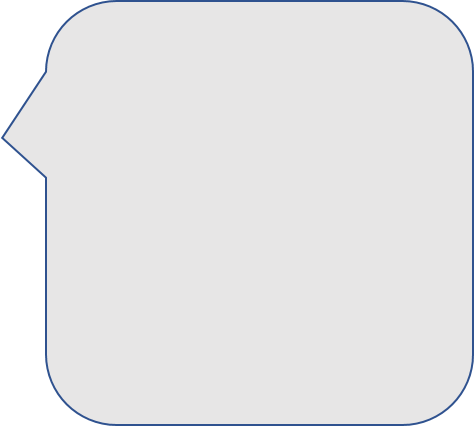
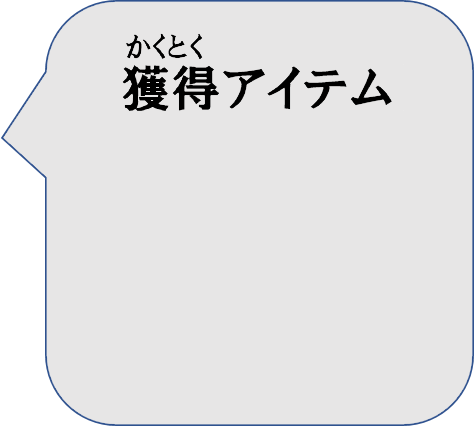
html,css,js,各画像を編集・追加

Changed region(s): [[0.2658, 0.0915, 0.5612, 0.2746], [0.5612, 0.1526, 0.7384, 0.2746], [0.7384, 0.1526, 0.827, 0.2441]]

diff --git a/works/ClearAndForEnding/js/clear.js b/works/ClearAndForEnding/js/clear.js
@@ -1,0 +1,84 @@
+$(function(){
+  // クッキーの値取得
+  var chapterCookieValue = $.cookie('chapter');
+  var charaCookieValue = $.cookie('chara');
+  var secretCookieValue = $.cookie('secret');
+  var allClearCookieValue = $.cookie('all-clear');
+
+  // 画像が入っているフォルダのパス
+  var imageDir = "../works/ClearAndForEnding/";
+
+  // Cookieの値によって章番号変更
+  switch(chapterCookieValue){
+    case "1":
+      $('.chapter-image').attr('src', imageDir + '第1章　文字（縦）.png');
+      break;
+    case "2":
+      $('.chapter-image').attr('src', imageDir + '第2章　文字（縦）.png');
+      break;
+    case "3":
+      $('.chapter-image').attr('src', imageDir + '第3章　文字（縦）.png');
+      break;
+    default:
+      $('.chapter-image').hide();
+      $('.name-image').css('left', '37.5%');
+      break;
+  }
+  
+  // Cookieの値によって人物画像変更
+  switch(charaCookieValue){
+    case "etou":
+      $('.sage-image').attr('src', imageDir + '江藤新平　人物（縦）.png');
+      $('.name-image').attr('src', imageDir + '江藤新平　文字（縦）.png');
+      break;
+    case "ooki":
+      $('.sage-image').attr('src', imageDir + '大木喬任　人物（縦）.png');
+      $('.name-image').attr('src', imageDir + '大木喬任　文字（縦）.png');
+      break;
+    case "soejima":
+      $('.sage-image').attr('src', imageDir + '副島種臣　人物（縦）.png');
+      $('.name-image').attr('src', imageDir + '副島種臣　文字（縦）.png');
+      break;
+    case "ookuma":
+      $('.sage-image').attr('src', imageDir + '大隈重信　人物（縦）.png');
+      $('.name-image').attr('src', imageDir + '大隈重信　文字（縦）.png');
+      break;
+    case "sano":
+      $('.sage-image').attr('src', imageDir + '佐野常民　人物（縦）.png');
+      $('.name-image').attr('src', imageDir + '佐野常民　文字（縦）.png');
+      break;
+    case "nabesima":
+      $('.sage-image').attr('src', imageDir + '鍋島直正　人物（縦）.png');
+      $('.name-image').attr('src', imageDir + '鍋島直正　文字（縦）.png');
+      break;
+    case "sima":
+      $('.sage-image').attr('src', imageDir + '島義勇　人物（縦）.png');
+      $('.name-image').attr('src', imageDir + '島義勇　文字（縦）.png');
+      break;
+    default:
+      $('.sage-image').attr('src', imageDir + '江藤新平　人物（縦）.png');
+      $('.name-image').attr('src', imageDir + '江藤新平　文字（縦）.png');
+      break;
+  }
+
+  // 画面遷移の条件分岐（仮：全ストーリークリアかつ第三章のとき）
+
+  // 秘密のパスワードかどうか
+  if(secretCookieValue == true){
+    $('.link-text').attr("href", "chara.html");
+  }
+  // 章の全ストーリークリアかどうか
+  if(allClearCookieValue == true){
+    // 第三章かどうか
+    if(chapterCookieValue == "3"){
+      $('.link-text').attr("href", "endhing.html");
+    }
+    else{
+      $('.link-text').attr("href", "map.html");
+    }
+  }
+  else{
+    $('.link-text').attr("href", "map.html");
+    // 当該イベントピン非表示
+  }
+});

diff --git a/works/ClearAndForEnding/view/clear.html b/works/ClearAndForEnding/view/clear.html
@@ -1,0 +1,33 @@
+<head>
+    <title>七賢人育成ゲーム</title>
+    <meta charset="utf-8">
+    <meta name="viewport" content="width=device-width, initial-scale=1">
+    <!-- bootstrapのよみこみ。ここから -->
+    <link href="../css/bootstrap.min.css" rel="stylesheet">
+    <script src="../js/jquery-3.3.1.min.js"></script>
+    <script src="../js/jquery.cookie.js"></script>
+    <script src="../js/popper.min.js"></script>
+    <script src="../js/bootstrap.min.js"></script>
+    <!-- ここまで -->
+    <link rel="stylesheet" href="../css/size.css" type="text/css">
+    <link rel="stylesheet" href="../css/clear.css" type="text/css">
+    <script type="text/javascript" src="../js/clear.js"></script>
+</head>
+
+<body>
+    <div id="contents">
+        <a class="link-text" href="endhing.html"></a>
+        <p>
+            <div class="relative">
+                <img class="title-image" src="../works/ClearAndForEnding/横パーツ/章吹きだし(横).png">
+                <img class="name-image">
+                <img class="chapter-image">
+            </div>
+        </p>
+        <p>
+            <img class="sage-image">
+            <img class="clear-image" src="../works/ClearAndForEnding/クリア　タッチして次へ.png">
+        </p>
+        <!-- jsで以降の処理を記述する必要あり -->
+    </div>
+</body>

diff --git a/works/ClearAndForEnding/css/clear.css b/works/ClearAndForEnding/css/clear.css
@@ -1,0 +1,52 @@
+.relative{
+  position: relative;
+}
+
+.title-image{
+  width: 70%;
+  height: 17.5%;
+  margin-left: 15%;
+}
+
+.name-image{
+  position: absolute;
+  width: 30%;
+  height: 50%;
+  top: 25%;
+  left: 25%;
+}
+
+.chapter-image{
+  position: absolute;
+  width: 25%;
+  height: 45%;
+  top: 30%;
+  right: 20%;
+}
+
+.clear-image{
+  width: 40%;
+  height: 25%;
+  margin-left: 5%;
+  margin-top: -3%;
+}
+
+.sage-image{
+  width: 21%;
+  height: 56%;
+  margin-left: 20%;
+  margin-top: -3%;
+}
+
+#contents{
+  position: relative;
+}
+
+#contents a{
+  position: absolute;
+  top: 0;
+  left: 0;
+  width: 100%;
+  height: 100%;
+  text-indent:-999px;
+}
